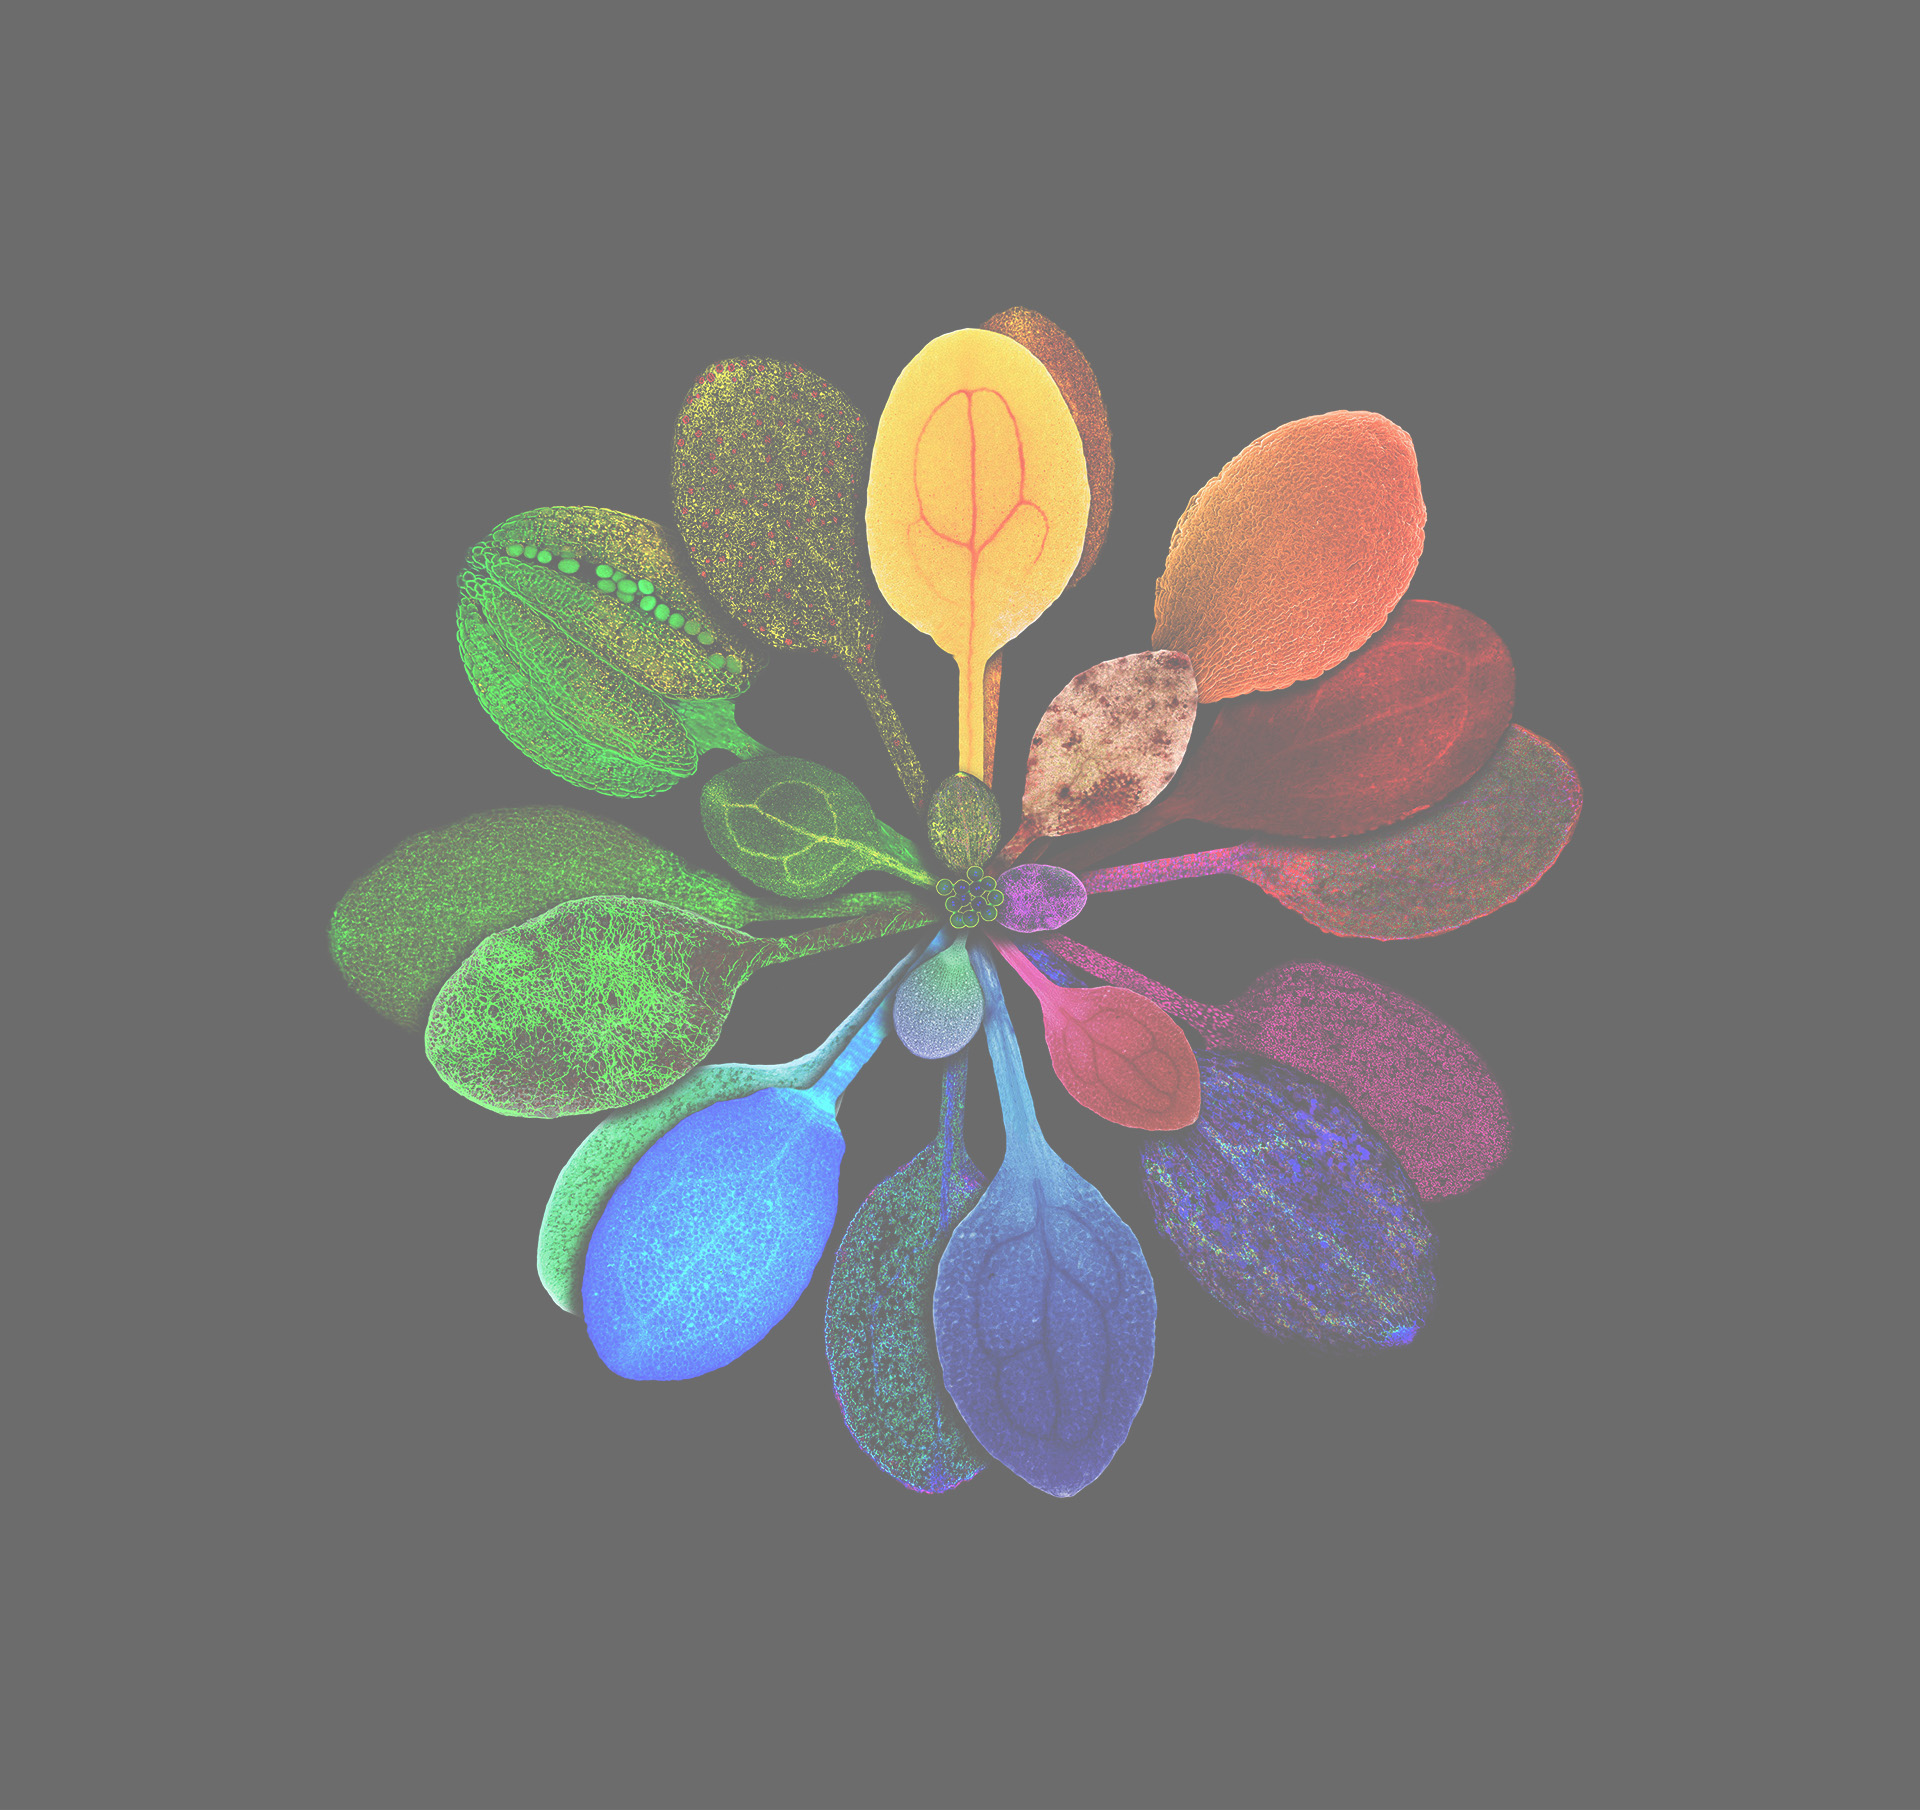
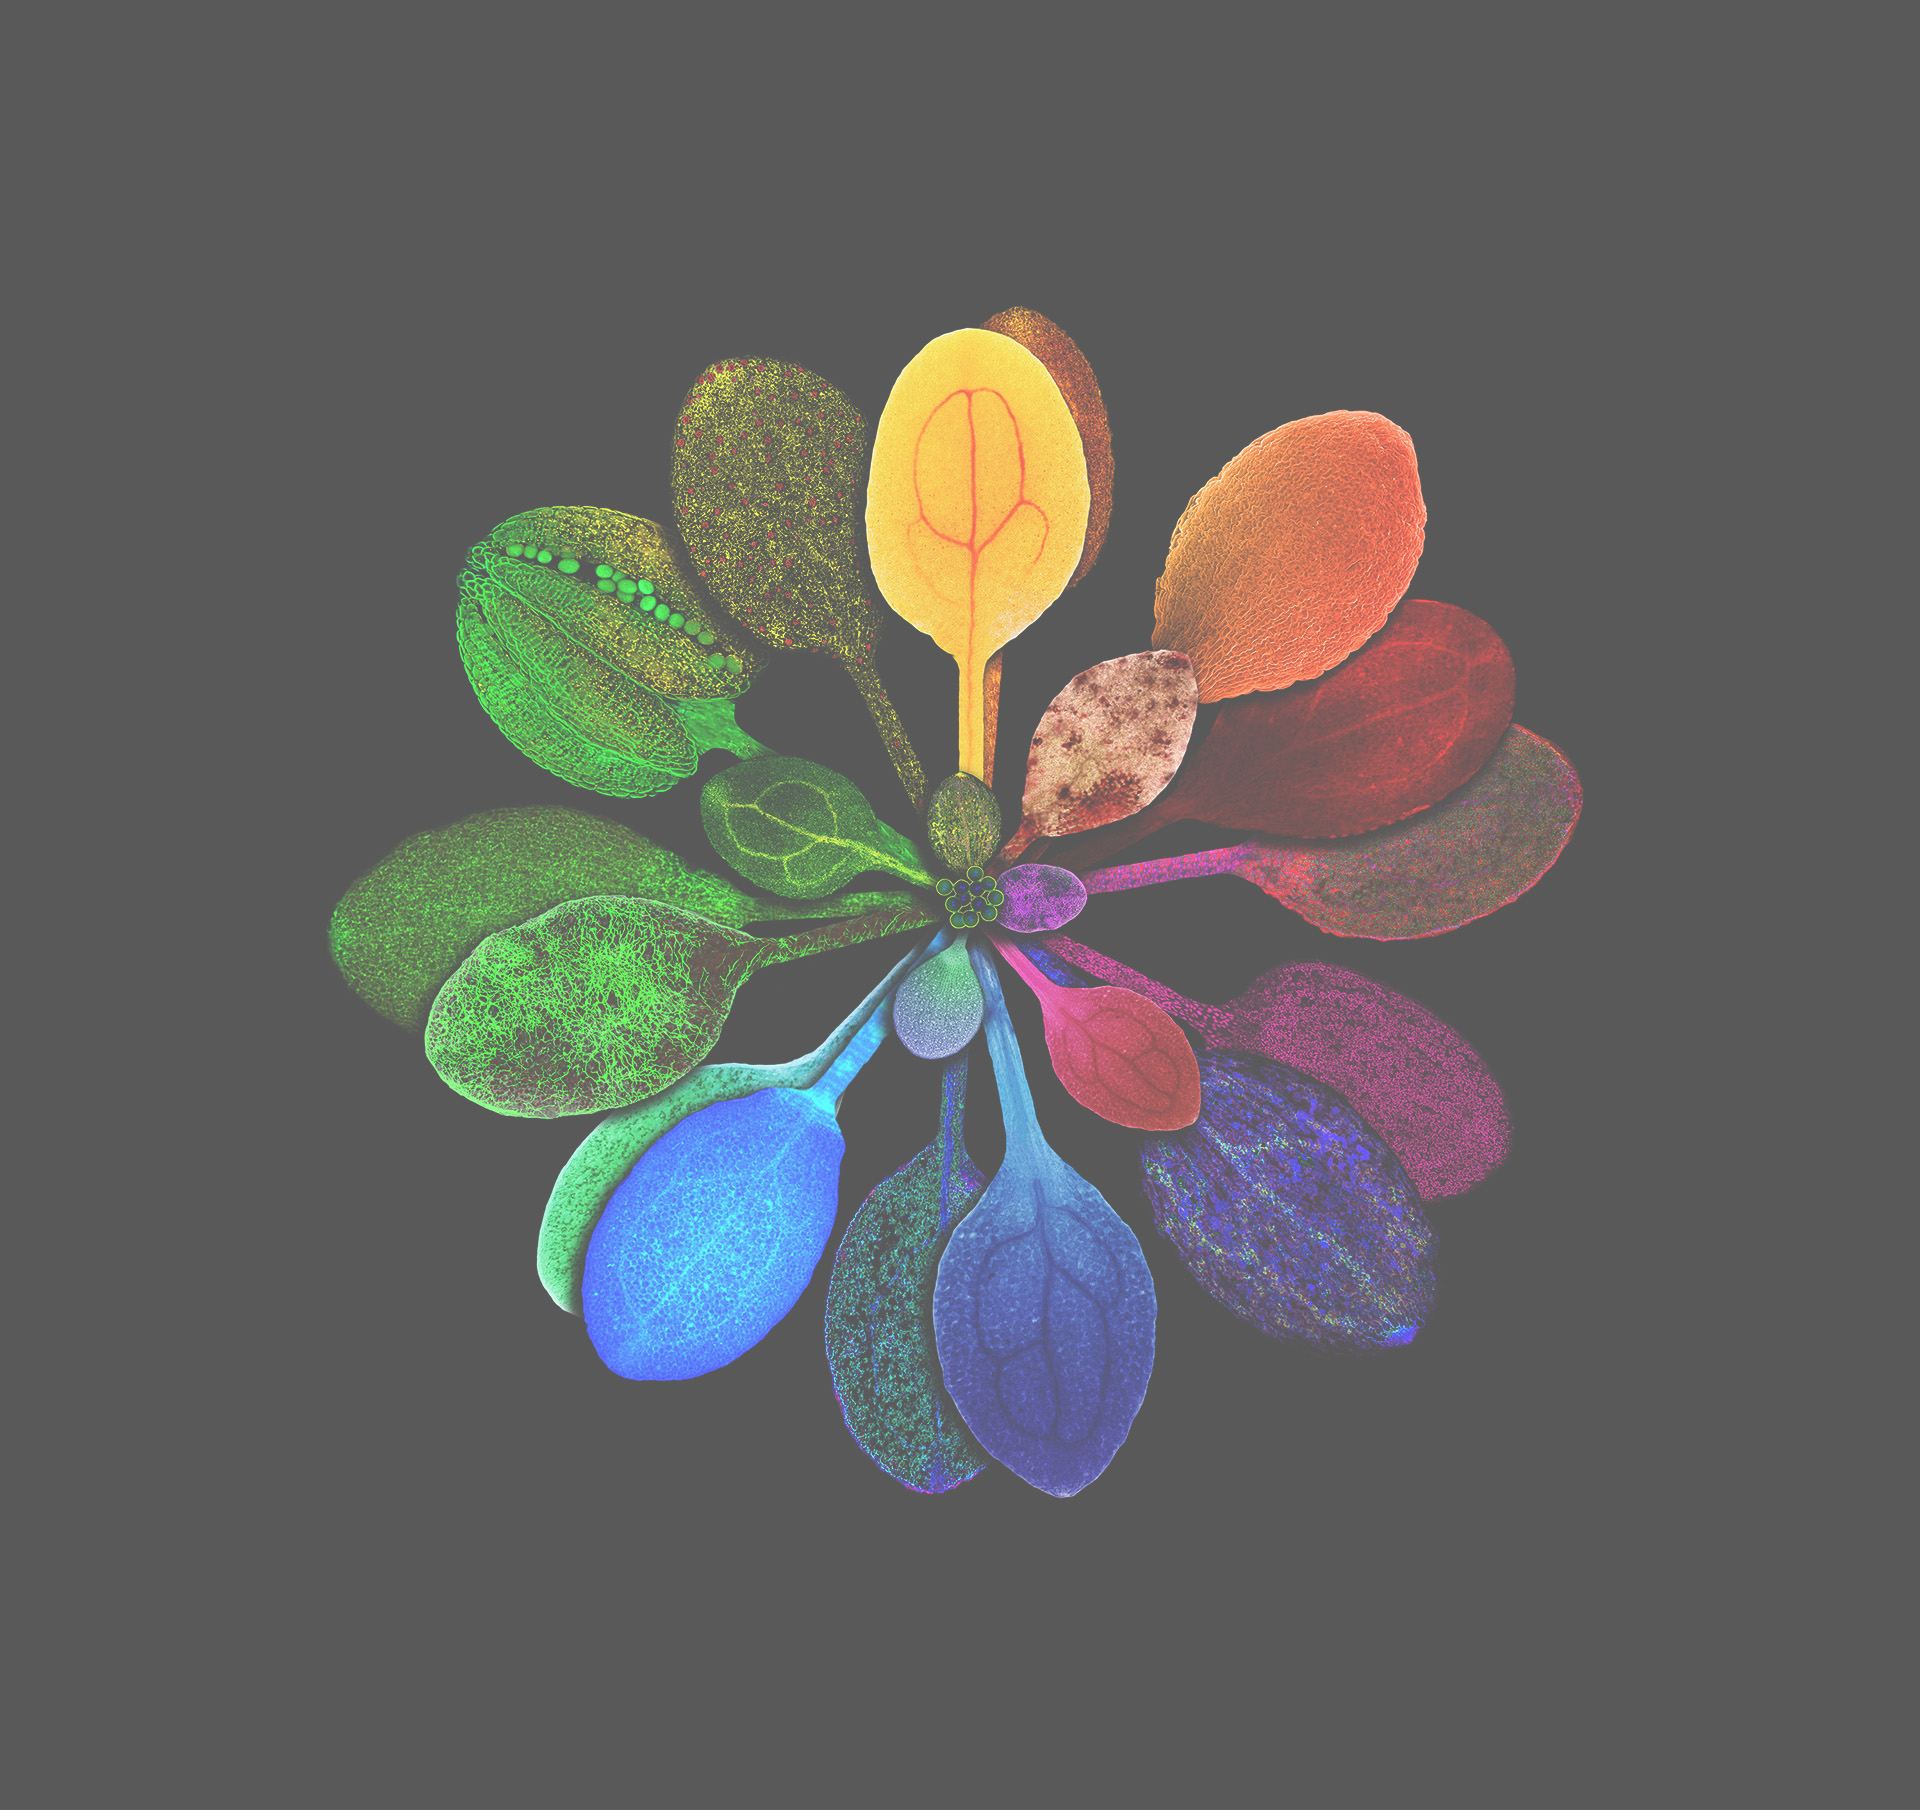
update

diff --git a/_sections/welcome.html b/_sections/welcome.html
@@ -1,6 +1,6 @@
 ---
 title: Welcome!
-cover-photo: assets/images/10_wallpaper1.png
+cover-photo: assets/images/10_wallpaper1.jpg
 cover-photo-alt: example cover photo
 auto-header: none
 icon: fa-comment
